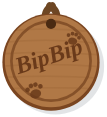
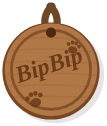
Thẻ tên dính sát cằm, quai dây chỉ nhô khoảng 1/6 đường kính
- Nâng thẻ lên 3,4 đơn vị, đỉnh thẻ chồng lên lông cằm; quai nhô khỏi mép thẻ khoảng 5 đơn vị
- Pivot lắc 100, 142,2 (web, layers-page, rive/README)
- Tạo lại PNG tag, parts, penguin-plush.svg

Claude-Session: https://claude.ai/code/session_01QMkjUPyG7HGKPseKjEMk1E

Changed region(s): [[0.0, 0.0256, 0.9813, 0.9744], [0.4486, 0.0, 0.5047, 0.0256]]

diff --git a/packages/web/penguin.js b/packages/web/penguin.js
@@ -731,12 +731,12 @@
         '<g transform="translate(0 4)"><path d="' + tufts + '" fill="#5A6475"/>' +
         strands('M97 29l-4 -10M101 28l1 -11M104 30l5 -9M92 31l-7 -6', '#5A6475', 1.6) + '</g>' +
       '</g>' +
-      // thẻ tên gỗ tròn, mặt mờ (không bóng), khắc chìm; quai da lộn rất ngắn luồn qua lỗ ở đỉnh, thẻ sát cằm; lắc quanh lỗ (100 145.6)
-      '<g class="pg-tag"><g transform="translate(0 -5.6)">' +
+      // thẻ tên gỗ tròn, mặt mờ (không bóng), khắc chìm; quai da lộn nhô khỏi mép thẻ khoảng 1/6 đường kính, thẻ dính sát cằm và chồng lên lông cằm; lắc quanh lỗ (100 142.2)
+      '<g class="pg-tag"><g transform="translate(0 -9)">' +
         '<ellipse cx="101.4" cy="165.4" rx="16.3" ry="16" fill="#3E4757" opacity=".15"/>' +
         '<g fill="none" stroke="#6E4724" stroke-width="2.4" stroke-linecap="round">' +
-          '<path d="M99.3 151.4 C97.3 149.2 97.9 146.6 100.4 145.2"/>' +
-          '<path d="M100.7 151.4 C102.7 149.2 102.1 146.6 99.6 145.2"/>' +
+          '<path d="M99.3 151.4 C97.1 148.6 97.7 144.6 100.3 142.4"/>' +
+          '<path d="M100.7 151.4 C102.9 148.6 102.3 144.6 99.7 142.4"/>' +
         '</g>' +
         '<circle cx="100" cy="164" r="16.2" fill="#7A4520"/>' +
         '<circle cx="100" cy="163.6" r="15.4" fill="#B07846"/>' +
@@ -796,7 +796,7 @@
     '.pg-cheek-l{transform-origin:54px 109px}.pg-cheek-r{transform-origin:146px 109px}' +
     '.pg-brow-l{transform-origin:64px 83px}.pg-brow-r{transform-origin:136px 83px}' +
     '.pg-face{transform-origin:100px 100px}' +
-    '.pg-tag{transform-origin:100px 145.6px}';
+    '.pg-tag{transform-origin:100px 142.2px}';
 
   P.registerVariant('plush', {
     label: 'Plush',

diff --git a/penguin.js b/penguin.js
@@ -731,12 +731,12 @@
         '<g transform="translate(0 4)"><path d="' + tufts + '" fill="#5A6475"/>' +
         strands('M97 29l-4 -10M101 28l1 -11M104 30l5 -9M92 31l-7 -6', '#5A6475', 1.6) + '</g>' +
       '</g>' +
-      // thẻ tên gỗ tròn, mặt mờ (không bóng), khắc chìm; quai da lộn rất ngắn luồn qua lỗ ở đỉnh, thẻ sát cằm; lắc quanh lỗ (100 145.6)
-      '<g class="pg-tag"><g transform="translate(0 -5.6)">' +
+      // thẻ tên gỗ tròn, mặt mờ (không bóng), khắc chìm; quai da lộn nhô khỏi mép thẻ khoảng 1/6 đường kính, thẻ dính sát cằm và chồng lên lông cằm; lắc quanh lỗ (100 142.2)
+      '<g class="pg-tag"><g transform="translate(0 -9)">' +
         '<ellipse cx="101.4" cy="165.4" rx="16.3" ry="16" fill="#3E4757" opacity=".15"/>' +
         '<g fill="none" stroke="#6E4724" stroke-width="2.4" stroke-linecap="round">' +
-          '<path d="M99.3 151.4 C97.3 149.2 97.9 146.6 100.4 145.2"/>' +
-          '<path d="M100.7 151.4 C102.7 149.2 102.1 146.6 99.6 145.2"/>' +
+          '<path d="M99.3 151.4 C97.1 148.6 97.7 144.6 100.3 142.4"/>' +
+          '<path d="M100.7 151.4 C102.9 148.6 102.3 144.6 99.7 142.4"/>' +
         '</g>' +
         '<circle cx="100" cy="164" r="16.2" fill="#7A4520"/>' +
         '<circle cx="100" cy="163.6" r="15.4" fill="#B07846"/>' +
@@ -796,7 +796,7 @@
     '.pg-cheek-l{transform-origin:54px 109px}.pg-cheek-r{transform-origin:146px 109px}' +
     '.pg-brow-l{transform-origin:64px 83px}.pg-brow-r{transform-origin:136px 83px}' +
     '.pg-face{transform-origin:100px 100px}' +
-    '.pg-tag{transform-origin:100px 145.6px}';
+    '.pg-tag{transform-origin:100px 142.2px}';
 
   P.registerVariant('plush', {
     label: 'Plush',

diff --git a/tools/layers-page.html b/tools/layers-page.html
@@ -21,7 +21,7 @@
     { name: 'shadow', sel: '.pg-shadow', rest: true, pivot: [100, 227] },
     { name: 'body', sel: '.pg-bodyg > g:nth-child(1)', rest: true, pivot: [100, 224] },
     { name: 'head', sel: '.pg-bodyg > g:nth-child(2)', rest: true, pivot: [100, 135] },
-    { name: 'tag', sel: '.pg-tag', rest: true, pivot: [100, 145.6] },
+    { name: 'tag', sel: '.pg-tag', rest: true, pivot: [100, 142.2] },
     { name: 'cap', sel: '.pg-cap', force: true, pivot: [100, 50] },
     { name: 'brow_l', sel: '.pg-brow-l', parentForce: '.pg-brows' },
     { name: 'brow_r', sel: '.pg-brow-r', parentForce: '.pg-brows' },

diff --git a/rive/README.md b/rive/README.md
@@ -28,7 +28,7 @@ Tên cố định: `root`, `body`, `head`, `tag`, `wing_l`, `wing_r`, `foot_l`, 
 | `root` | gốc | tất cả (nhảy, nghiêng cả người) | 100, 226 |
 | `body` | `root` | `body` | 100, 224 |
 | `head` | `body` | `head`, `cap`, `brow_*`, `eyes_*`, `cheek_*`, `mouth`, `beak_*` | 100, 135 (gợi ý) |
-| `tag` | `body` | `tag` (thẻ tên gỗ tròn, đường kính khoảng 32 đơn vị, mặt mờ, kèm quai da lộn rất ngắn luồn qua lỗ ở đỉnh, thẻ sát cằm; lắc quanh lỗ) | 100, 145,6 |
+| `tag` | `body` | `tag` (thẻ tên gỗ tròn, đường kính khoảng 32 đơn vị, mặt mờ, kèm quai da lộn nhô khỏi mép thẻ khoảng 1/6 đường kính, thẻ dính sát cằm và chồng lên lông cằm; lắc quanh lỗ) | 100, 142,2 |
 | `eye_l`, `eye_r` | `head` | `eye_l`, `eye_r` (nhìn quanh, chớp mắt) | 64, 94 và 136, 94 |
 | `wing_l`, `wing_r` | `body` | `wing_l`, `wing_r` | 41, 149 và 159, 149 |
 | `foot_l`, `foot_r` | `root` | `foot_l`, `foot_r` | 71, 227 và 129, 227 |

diff --git a/art/plush/parts.md b/art/plush/parts.md
@@ -9,7 +9,7 @@ Tâm = nơi đặt ảnh nếu Rive đặt theo tâm. Pivot = tâm xoay gợi ý
 | `shadow` | có | 47.33 | 219.33 | 105.33 | 15.33 | 100 | 227 | 100, 227 |
 | `body` | có | 30 | 115.33 | 140 | 112.67 | 100 | 171.67 | 100, 224 |
 | `head` | có | 16.33 | 15.67 | 167.33 | 129 | 100 | 80.17 | 100, 135 |
-| `tag` | có | 83 | 137.67 | 35.67 | 39 | 100.84 | 157.17 | 100, 145.6 |
+| `tag` | có | 83 | 131.33 | 35.67 | 42 | 100.84 | 152.33 | 100, 142.2 |
 | `cap` | không | 51 | 10.33 | 97.67 | 47.67 | 99.84 | 34.17 | 100, 50 |
 | `brow_l` | không | 55 | 79.67 | 18 | 6.33 | 64 | 82.84 | 64, 83 |
 | `brow_r` | không | 127 | 79.67 | 18 | 6.33 | 136 | 82.84 | 136, 83 |
